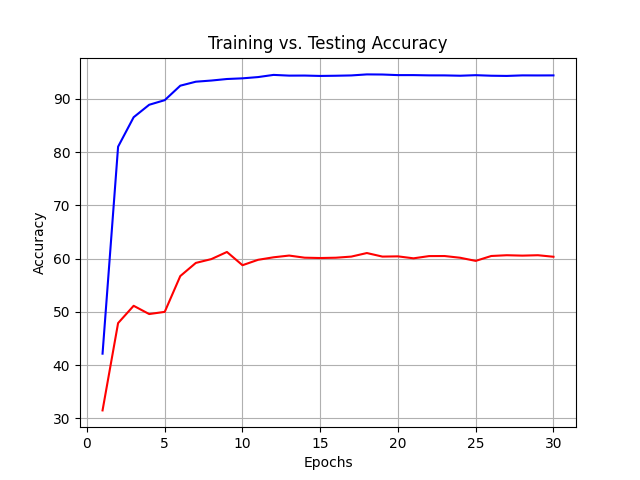
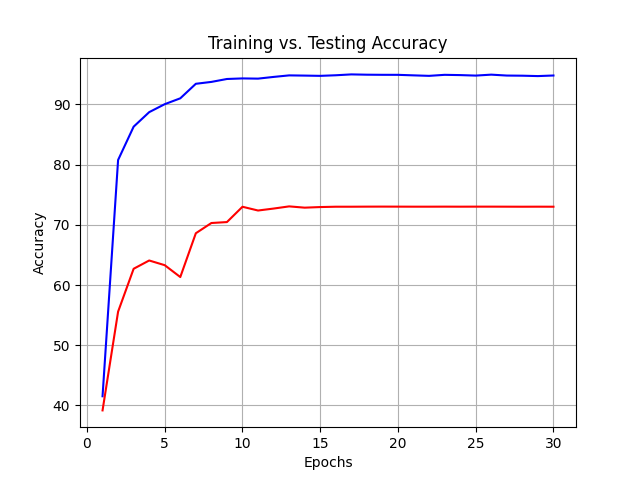
reintroducing batchnorm to model 3

diff --git a/packages/networks.py b/packages/networks.py
@@ -63,34 +63,40 @@ class Network(nn.Module):
         # Fully Convolutional Layers
         self.custom_conv1 = nn.Sequential(
             nn.Conv2d(1, 32, kernel_size=5, stride=1),
+            nn.BatchNorm2d(32),
             nn.ReLU(inplace=True),
             nn.MaxPool2d(kernel_size=2, stride=2)
         ) # dim: 64 -> 60 -> 30
 
         self.custom_conv2 = nn.Sequential(
             nn.Conv2d(32, 64, kernel_size=5, stride=1),
+            nn.BatchNorm2d(64),
             nn.ReLU(inplace=True),
             nn.MaxPool2d(kernel_size=2, stride=2)
         ) # dim: 30 -> 26 -> 13
 
         self.custom_conv3 = nn.Sequential(
             nn.Conv2d(64, 128, kernel_size=3, stride=1),
+            nn.BatchNorm2d(128),
             nn.ReLU(inplace=True)
         ) # dim: 13 -> 11
 
         self.custom_conv4 = nn.Sequential(
             nn.Conv2d(128, 128, kernel_size=3, stride=1),
+            nn.BatchNorm2d(128),
             nn.ReLU(inplace=True)
         ) # dim: 11 -> 9
 
         self.custom_conv5 = nn.Sequential(
             nn.Conv2d(128, 256, kernel_size=3, stride=1),
+            nn.BatchNorm2d(256),
             nn.ReLU(inplace=True),
             nn.MaxPool2d(kernel_size=2, stride=2)
         ) # dim: 9 -> 7 -> 3
         
         self.fcn_layer = nn.Sequential(
             nn.Conv2d(256, 512, kernel_size=3, stride=1),
+            nn.BatchNorm2d(512),
             nn.ReLU(inplace=True)
         ) # dim: 3 -> 1
 
